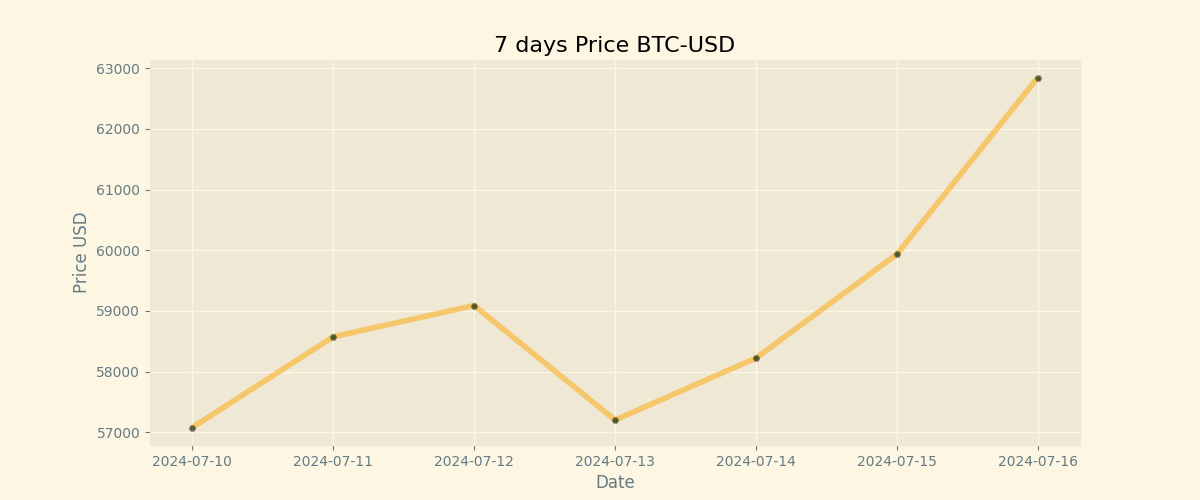
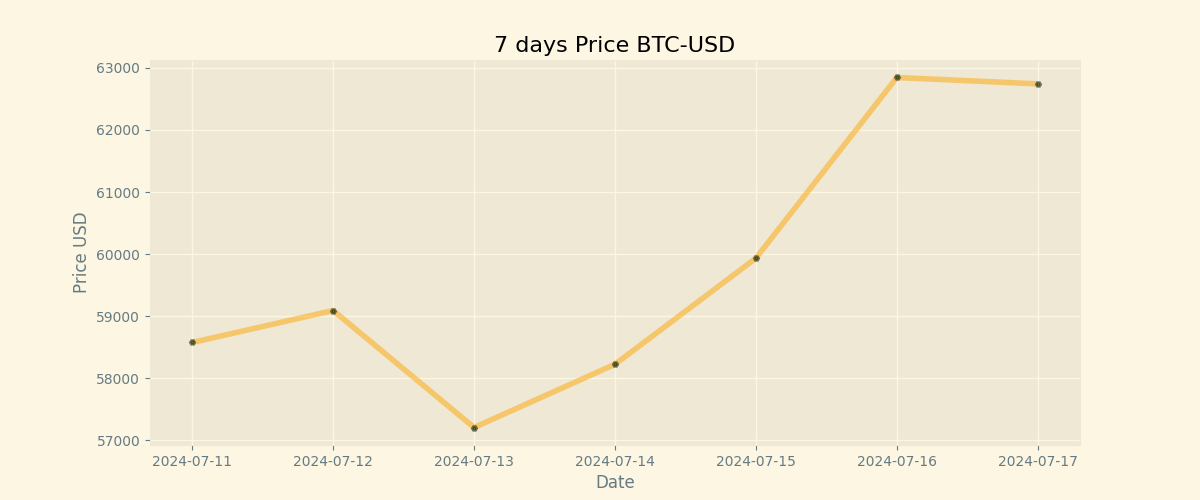
Duty Updates 2024-07-17

diff --git a/README.md b/README.md
@@ -9,8 +9,8 @@
 
 | Currency | Price           |
 | -------- | --------------- |
-| **BTC**  | **$ 62846.29** |
-| **ETH**  | **$ 3349.89** |
+| **BTC**  | **$ 62743.52** |
+| **ETH**  | **$ 3377.9** |
 
 ## BTC chart
 
